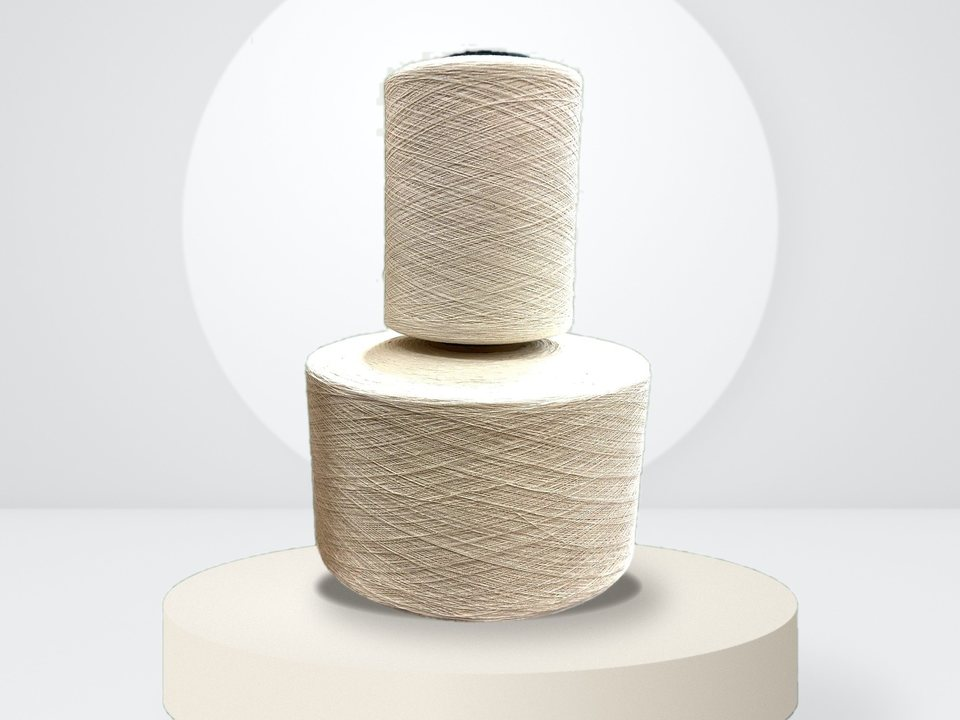
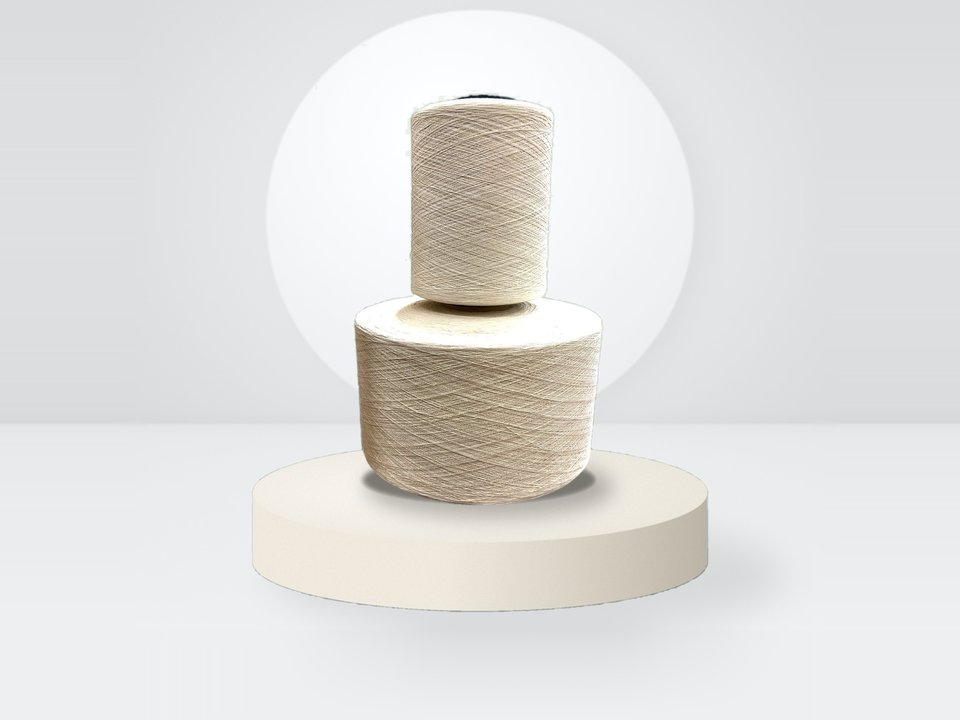
Yarn card: show the whole podium; cache-bust photos
The card photo now keeps the full podium with some floor below it.
Photo URLs carry a content hash so replaced images are not served
from browser cache.

Claude-Session: https://claude.ai/code/session_016sCuQqi6TPsQvyxFB8uVLd

Changed region(s): [[0.3125, 0.0611, 0.8438, 1.0]]

diff --git a/docs/ru/yarn.html b/docs/ru/yarn.html
@@ -81,7 +81,7 @@
 
     <section class="section">
       <div class="container split split-top">
-        <div class="split-media"><figure class="media media-tall"><video class="media-video" autoplay muted loop playsinline preload="metadata" poster="../assets/img/yarn-mill-poster.jpg" aria-label="Производство пряжи ALTYN PAMYK"><source src="../assets/video/yarn-mill.mp4" type="video/mp4"></video></figure></div>
+        <div class="split-media"><figure class="media media-tall"><video class="media-video" autoplay muted loop playsinline preload="metadata" poster="../assets/img/yarn-mill-poster.jpg?v=181b37dc" aria-label="Производство пряжи ALTYN PAMYK"><source src="../assets/video/yarn-mill.mp4" type="video/mp4"></video></figure></div>
         <div >
           <div class="prose"><p>Предприятие введено в эксплуатацию в 2026 году. Производственная мощность составляет 5 000 тонн пряжи.</p><p>Предприятие выпускает хлопчатобумажную пряжу пневмомеханического способа прядения OE (Open End) номеров Ne 16 и Ne 21. Производство организовано в сотрудничестве с китайскими инженерами с применением современных технологий и оборудования.</p><p>Эксклюзивная реализация продукции предприятия осуществляется под торговой маркой UMMAN TRADE.</p></div>
           <dl class="stat-row "><div><dt>2026</dt><dd>год ввода в эксплуатацию</dd></div><div><dt>5 000 тонн</dt><dd>производственная мощность</dd></div><div><dt>Ne 16 · 21</dt><dd>номера пряжи</dd></div></dl>
@@ -114,27 +114,27 @@
         <header class="section-head"><h2>Предприятие</h2></header>
         <div class="gallery">
         <figure class="photo">
-          <img src="../assets/img/yarn-1.jpg" alt="Цех подготовки сырья" loading="lazy">
+          <img src="../assets/img/yarn-1.jpg?v=40c728ed" alt="Цех подготовки сырья" loading="lazy">
           <figcaption>Цех подготовки сырья</figcaption>
         </figure>
         <figure class="photo">
-          <img src="../assets/img/yarn-2.jpg" alt="Кипоразрыхлитель" loading="lazy">
+          <img src="../assets/img/yarn-2.jpg?v=1f694115" alt="Кипоразрыхлитель" loading="lazy">
           <figcaption>Кипоразрыхлитель</figcaption>
         </figure>
         <figure class="photo">
-          <img src="../assets/img/yarn-3.jpg" alt="Линия разрыхления кип" loading="lazy">
+          <img src="../assets/img/yarn-3.jpg?v=889b5f36" alt="Линия разрыхления кип" loading="lazy">
           <figcaption>Линия разрыхления кип</figcaption>
         </figure>
         <figure class="photo">
-          <img src="../assets/img/yarn-4.jpg" alt="Пряжа ALTYN PAMYK" loading="lazy">
+          <img src="../assets/img/yarn-4.jpg?v=50eaffc7" alt="Пряжа ALTYN PAMYK" loading="lazy">
           <figcaption>Пряжа ALTYN PAMYK</figcaption>
         </figure>
         <figure class="photo">
-          <img src="../assets/img/yarn-5.jpg" alt="Машины пневмомеханического прядения" loading="lazy">
+          <img src="../assets/img/yarn-5.jpg?v=aa8656c3" alt="Машины пневмомеханического прядения" loading="lazy">
           <figcaption>Машины пневмомеханического прядения</figcaption>
         </figure>
         <figure class="photo">
-          <img src="../assets/img/yarn-6.jpg" alt="Прядильный цех" loading="lazy">
+          <img src="../assets/img/yarn-6.jpg?v=b31d06ab" alt="Прядильный цех" loading="lazy">
           <figcaption>Прядильный цех</figcaption>
         </figure>
         </div>

diff --git a/docs/ru/index.html b/docs/ru/index.html
@@ -82,7 +82,7 @@
             <a class="btn btn-outline" href="#directions"><span>Направления</span><svg class="icon" viewBox="0 0 24 24" fill="none" stroke="currentColor" stroke-width="1.8" stroke-linecap="round" stroke-linejoin="round" aria-hidden="true"><path d="M5 12h14M13 6l6 6-6 6"/></svg></a>
           </div>
         </div>
-        <div class="hero-visual"><figure class="media media-hero"><video class="media-video" autoplay muted loop playsinline preload="metadata" poster="../assets/img/spinning-hall-poster.jpg" aria-label="Производство пряжи ALTYN PAMYK"><source src="../assets/video/spinning-hall.mp4" type="video/mp4"></video></figure></div>
+        <div class="hero-visual"><figure class="media media-hero"><video class="media-video" autoplay muted loop playsinline preload="metadata" poster="../assets/img/spinning-hall-poster.jpg?v=5214b2cf" aria-label="Производство пряжи ALTYN PAMYK"><source src="../assets/video/spinning-hall.mp4" type="video/mp4"></video></figure></div>
       </div>
       <div class="container"><dl class="stat-row stats"><div><dt>5 000 тонн</dt><dd>производственная мощность по пряже</dd></div><div><dt>12 000 тонн</dt><dd>хлопкового линта экспортировано в 2024–2025 гг.</dd></div><div><dt>HVI</dt><dd>собственная лаборатория контроля качества хлопка</dd></div><div><dt>4</dt><dd>направления деятельности</dd></div></dl></div>
     </section>
@@ -95,7 +95,7 @@
         </header>
         <div class="dir-grid">
         <article class="dir-card">
-          <a class="dir-card-media has-photo" href="yarn.html" tabindex="-1" aria-hidden="true"><img src="../assets/img/yarn-card-white.jpg" alt="" loading="lazy"></a>
+          <a class="dir-card-media has-photo" href="yarn.html" tabindex="-1" aria-hidden="true"><img src="../assets/img/yarn-card-white.jpg?v=2f282466" alt="" loading="lazy"></a>
           <div class="dir-card-body">
             <h3><a href="yarn.html">Производство пряжи</a></h3>
             <p>Хлопчатобумажная пряжа OE Ne 16 и Ne 21 под торговой маркой ALTYN PAMYK.</p>
@@ -103,7 +103,7 @@
           </div>
         </article>
         <article class="dir-card">
-          <a class="dir-card-media has-photo" href="export.html" tabindex="-1" aria-hidden="true"><img src="../assets/img/export-2.jpg" alt="" loading="lazy"></a>
+          <a class="dir-card-media has-photo" href="export.html" tabindex="-1" aria-hidden="true"><img src="../assets/img/export-2.jpg?v=c5147658" alt="" loading="lazy"></a>
           <div class="dir-card-body">
             <h3><a href="export.html">Экспорт хлопка</a></h3>
             <p>Хлопковый линт, волокно и улюк из Туркменистана для зарубежных покупателей.</p>
@@ -159,7 +159,7 @@
 
     <section class="section">
       <div class="container split">
-        <div class="split-media"><figure class="media media-tall"><video class="media-video" autoplay muted loop playsinline preload="metadata" poster="../assets/img/yarn-mill-poster.jpg" aria-label="Производство пряжи ALTYN PAMYK"><source src="../assets/video/yarn-mill.mp4" type="video/mp4"></video></figure></div>
+        <div class="split-media"><figure class="media media-tall"><video class="media-video" autoplay muted loop playsinline preload="metadata" poster="../assets/img/yarn-mill-poster.jpg?v=181b37dc" aria-label="Производство пряжи ALTYN PAMYK"><source src="../assets/video/yarn-mill.mp4" type="video/mp4"></video></figure></div>
         <div >
           <p class="eyebrow">Торговая марка ALTYN PAMYK</p>
           <h2>Собственное производство пряжи</h2>

diff --git a/docs/ru/export.html b/docs/ru/export.html
@@ -81,7 +81,7 @@
 
     <section class="section">
       <div class="container split split-top">
-        <div class="split-media"><figure class="media media-tall"><video class="media-video" autoplay muted loop playsinline preload="metadata" poster="../assets/img/cotton-bales-poster.jpg" aria-label="Видео: площадка хранения хлопковых кип"><source src="../assets/video/cotton-bales.mp4" type="video/mp4"></video></figure></div>
+        <div class="split-media"><figure class="media media-tall"><video class="media-video" autoplay muted loop playsinline preload="metadata" poster="../assets/img/cotton-bales-poster.jpg?v=1aab56e7" aria-label="Видео: площадка хранения хлопковых кип"><source src="../assets/video/cotton-bales.mp4" type="video/mp4"></video></figure></div>
         <div >
           <dl class="stat-row "><div><dt>2024</dt><dd>начало экспортной деятельности</dd></div><div><dt>12 000 тонн</dt><dd>хлопкового линта экспортировано за 2024–2025 гг.</dd></div></dl>
           <div class="prose"><p>За 2024–2025 годы было экспортировано 12 000 тонн хлопкового линта. Практический опыт и налаженные торговые связи позволяют нам организовывать крупнооптовые поставки для зарубежных покупателей.</p></div>
@@ -176,27 +176,27 @@
         <header class="section-head"><h2>Площадки хранения</h2></header>
         <div class="gallery">
         <figure class="photo">
-          <img src="../assets/img/export-1.jpg" alt="Площадка хранения" loading="lazy">
+          <img src="../assets/img/export-1.jpg?v=497e93f0" alt="Площадка хранения" loading="lazy">
           <figcaption>Площадка хранения</figcaption>
         </figure>
         <figure class="photo">
-          <img src="../assets/img/export-2.jpg" alt="Кипы хлопка" loading="lazy">
+          <img src="../assets/img/export-2.jpg?v=c5147658" alt="Кипы хлопка" loading="lazy">
           <figcaption>Кипы хлопка</figcaption>
         </figure>
         <figure class="photo">
-          <img src="../assets/img/export-3.jpg" alt="Партии к отгрузке" loading="lazy">
+          <img src="../assets/img/export-3.jpg?v=6673baed" alt="Партии к отгрузке" loading="lazy">
           <figcaption>Партии к отгрузке</figcaption>
         </figure>
         <figure class="photo">
-          <img src="../assets/img/export-4.jpg" alt="Хлопковое сырьё" loading="lazy">
+          <img src="../assets/img/export-4.jpg?v=444c9ec2" alt="Хлопковое сырьё" loading="lazy">
           <figcaption>Хлопковое сырьё</figcaption>
         </figure>
         <figure class="photo">
-          <img src="../assets/img/export-5.jpg" alt="Хлопковое волокно" loading="lazy">
+          <img src="../assets/img/export-5.jpg?v=042dde79" alt="Хлопковое волокно" loading="lazy">
           <figcaption>Хлопковое волокно</figcaption>
         </figure>
         <figure class="photo">
-          <img src="../assets/img/export-6.jpg" alt="Хлопковое сырьё крупным планом" loading="lazy">
+          <img src="../assets/img/export-6.jpg?v=ee745458" alt="Хлопковое сырьё крупным планом" loading="lazy">
           <figcaption>Хлопковое сырьё крупным планом</figcaption>
         </figure>
         </div>

diff --git a/docs/tk/index.html b/docs/tk/index.html
@@ -82,7 +82,7 @@
             <a class="btn btn-outline" href="#directions"><span>Ugurlar</span><svg class="icon" viewBox="0 0 24 24" fill="none" stroke="currentColor" stroke-width="1.8" stroke-linecap="round" stroke-linejoin="round" aria-hidden="true"><path d="M5 12h14M13 6l6 6-6 6"/></svg></a>
           </div>
         </div>
-        <div class="hero-visual"><figure class="media media-hero"><video class="media-video" autoplay muted loop playsinline preload="metadata" poster="../assets/img/spinning-hall-poster.jpg" aria-label="ALTYN PAMYK ýüplük önümçiligi"><source src="../assets/video/spinning-hall.mp4" type="video/mp4"></video></figure></div>
+        <div class="hero-visual"><figure class="media media-hero"><video class="media-video" autoplay muted loop playsinline preload="metadata" poster="../assets/img/spinning-hall-poster.jpg?v=5214b2cf" aria-label="ALTYN PAMYK ýüplük önümçiligi"><source src="../assets/video/spinning-hall.mp4" type="video/mp4"></video></figure></div>
       </div>
       <div class="container"><dl class="stat-row stats"><div><dt>5 000 tonna</dt><dd>ýüplük boýunça önümçilik kuwwaty</dd></div><div><dt>12 000 tonna</dt><dd>pagta linti 2024–2025 ýyllarda eksport edildi</dd></div><div><dt>HVI</dt><dd>pagtanyň hilini barlaýan öz barlaghanamyz</dd></div><div><dt>4</dt><dd>işiň ugry</dd></div></dl></div>
     </section>
@@ -95,7 +95,7 @@
         </header>
         <div class="dir-grid">
         <article class="dir-card">
-          <a class="dir-card-media has-photo" href="yarn.html" tabindex="-1" aria-hidden="true"><img src="../assets/img/yarn-card-white.jpg" alt="" loading="lazy"></a>
+          <a class="dir-card-media has-photo" href="yarn.html" tabindex="-1" aria-hidden="true"><img src="../assets/img/yarn-card-white.jpg?v=2f282466" alt="" loading="lazy"></a>
           <div class="dir-card-body">
             <h3><a href="yarn.html">Ýüplük önümçiligi</a></h3>
             <p>ALTYN PAMYK haryt nyşany bilen OE Ne 16 we Ne 21 pagta ýüplügi.</p>
@@ -103,7 +103,7 @@
           </div>
         </article>
         <article class="dir-card">
-          <a class="dir-card-media has-photo" href="export.html" tabindex="-1" aria-hidden="true"><img src="../assets/img/export-2.jpg" alt="" loading="lazy"></a>
+          <a class="dir-card-media has-photo" href="export.html" tabindex="-1" aria-hidden="true"><img src="../assets/img/export-2.jpg?v=c5147658" alt="" loading="lazy"></a>
           <div class="dir-card-body">
             <h3><a href="export.html">Pagta eksporty</a></h3>
             <p>Daşary ýurt alyjylary üçin Türkmenistandan pagta linti, süýümi we ülügi.</p>
@@ -159,7 +159,7 @@
 
     <section class="section">
       <div class="container split">
-        <div class="split-media"><figure class="media media-tall"><video class="media-video" autoplay muted loop playsinline preload="metadata" poster="../assets/img/yarn-mill-poster.jpg" aria-label="ALTYN PAMYK ýüplük önümçiligi"><source src="../assets/video/yarn-mill.mp4" type="video/mp4"></video></figure></div>
+        <div class="split-media"><figure class="media media-tall"><video class="media-video" autoplay muted loop playsinline preload="metadata" poster="../assets/img/yarn-mill-poster.jpg?v=181b37dc" aria-label="ALTYN PAMYK ýüplük önümçiligi"><source src="../assets/video/yarn-mill.mp4" type="video/mp4"></video></figure></div>
         <div >
           <p class="eyebrow">ALTYN PAMYK haryt nyşany</p>
           <h2>Öz ýüplük önümçiligimiz</h2>

diff --git a/docs/en/index.html b/docs/en/index.html
@@ -82,7 +82,7 @@
             <a class="btn btn-outline" href="#directions"><span>Business lines</span><svg class="icon" viewBox="0 0 24 24" fill="none" stroke="currentColor" stroke-width="1.8" stroke-linecap="round" stroke-linejoin="round" aria-hidden="true"><path d="M5 12h14M13 6l6 6-6 6"/></svg></a>
           </div>
         </div>
-        <div class="hero-visual"><figure class="media media-hero"><video class="media-video" autoplay muted loop playsinline preload="metadata" poster="../assets/img/spinning-hall-poster.jpg" aria-label="ALTYN PAMYK yarn manufacturing"><source src="../assets/video/spinning-hall.mp4" type="video/mp4"></video></figure></div>
+        <div class="hero-visual"><figure class="media media-hero"><video class="media-video" autoplay muted loop playsinline preload="metadata" poster="../assets/img/spinning-hall-poster.jpg?v=5214b2cf" aria-label="ALTYN PAMYK yarn manufacturing"><source src="../assets/video/spinning-hall.mp4" type="video/mp4"></video></figure></div>
       </div>
       <div class="container"><dl class="stat-row stats"><div><dt>5,000 tonnes</dt><dd>yarn production capacity</dd></div><div><dt>12,000 tonnes</dt><dd>of cotton linter exported in 2024–2025</dd></div><div><dt>HVI</dt><dd>in-house cotton testing laboratory</dd></div><div><dt>4</dt><dd>business lines</dd></div></dl></div>
     </section>
@@ -95,7 +95,7 @@
         </header>
         <div class="dir-grid">
         <article class="dir-card">
-          <a class="dir-card-media has-photo" href="yarn.html" tabindex="-1" aria-hidden="true"><img src="../assets/img/yarn-card-white.jpg" alt="" loading="lazy"></a>
+          <a class="dir-card-media has-photo" href="yarn.html" tabindex="-1" aria-hidden="true"><img src="../assets/img/yarn-card-white.jpg?v=2f282466" alt="" loading="lazy"></a>
           <div class="dir-card-body">
             <h3><a href="yarn.html">Yarn manufacturing</a></h3>
             <p>Open-end cotton yarn Ne 16 and Ne 21 under the ALTYN PAMYK brand.</p>
@@ -103,7 +103,7 @@
           </div>
         </article>
         <article class="dir-card">
-          <a class="dir-card-media has-photo" href="export.html" tabindex="-1" aria-hidden="true"><img src="../assets/img/export-2.jpg" alt="" loading="lazy"></a>
+          <a class="dir-card-media has-photo" href="export.html" tabindex="-1" aria-hidden="true"><img src="../assets/img/export-2.jpg?v=c5147658" alt="" loading="lazy"></a>
           <div class="dir-card-body">
             <h3><a href="export.html">Cotton export</a></h3>
             <p>Cotton linter, fibre and ulyuk from Turkmenistan for international buyers.</p>
@@ -159,7 +159,7 @@
 
     <section class="section">
       <div class="container split">
-        <div class="split-media"><figure class="media media-tall"><video class="media-video" autoplay muted loop playsinline preload="metadata" poster="../assets/img/yarn-mill-poster.jpg" aria-label="ALTYN PAMYK yarn manufacturing"><source src="../assets/video/yarn-mill.mp4" type="video/mp4"></video></figure></div>
+        <div class="split-media"><figure class="media media-tall"><video class="media-video" autoplay muted loop playsinline preload="metadata" poster="../assets/img/yarn-mill-poster.jpg?v=181b37dc" aria-label="ALTYN PAMYK yarn manufacturing"><source src="../assets/video/yarn-mill.mp4" type="video/mp4"></video></figure></div>
         <div >
           <p class="eyebrow">ALTYN PAMYK brand</p>
           <h2>Our own yarn mill</h2>

diff --git a/docs/tk/yarn.html b/docs/tk/yarn.html
@@ -81,7 +81,7 @@
 
     <section class="section">
       <div class="container split split-top">
-        <div class="split-media"><figure class="media media-tall"><video class="media-video" autoplay muted loop playsinline preload="metadata" poster="../assets/img/yarn-mill-poster.jpg" aria-label="ALTYN PAMYK ýüplük önümçiligi"><source src="../assets/video/yarn-mill.mp4" type="video/mp4"></video></figure></div>
+        <div class="split-media"><figure class="media media-tall"><video class="media-video" autoplay muted loop playsinline preload="metadata" poster="../assets/img/yarn-mill-poster.jpg?v=181b37dc" aria-label="ALTYN PAMYK ýüplük önümçiligi"><source src="../assets/video/yarn-mill.mp4" type="video/mp4"></video></figure></div>
         <div >
           <div class="prose"><p>Kärhana 2026-njy ýylda ulanylmaga berildi. Önümçilik kuwwaty 5 000 tonna ýüplük.</p><p>Kärhana pnewmomehaniki egriş usulyndaky OE (Open End) Ne 16 we Ne 21 belgili pagta ýüplügini öndürýär. Önümçilik hytaý inženerleri bilen hyzmatdaşlykda döwrebap tehnologiýalary we enjamlary ulanmak arkaly guraldy.</p><p>Kärhananyň önümleri ýeke-täk UMMAN TRADE haryt nyşany bilen satylýar.</p></div>
           <dl class="stat-row "><div><dt>2026</dt><dd>ulanylmaga berlen ýyly</dd></div><div><dt>5 000 tonna</dt><dd>önümçilik kuwwaty</dd></div><div><dt>Ne 16 · 21</dt><dd>ýüplügiň belgileri</dd></div></dl>
@@ -114,27 +114,27 @@
         <header class="section-head"><h2>Kärhana</h2></header>
         <div class="gallery">
         <figure class="photo">
-          <img src="../assets/img/yarn-1.jpg" alt="Çig maly taýýarlaýyş sehi" loading="lazy">
+          <img src="../assets/img/yarn-1.jpg?v=40c728ed" alt="Çig maly taýýarlaýyş sehi" loading="lazy">
           <figcaption>Çig maly taýýarlaýyş sehi</figcaption>
         </figure>
         <figure class="photo">
-          <img src="../assets/img/yarn-2.jpg" alt="Tuplary ýazdyryjy" loading="lazy">
+          <img src="../assets/img/yarn-2.jpg?v=1f694115" alt="Tuplary ýazdyryjy" loading="lazy">
           <figcaption>Tuplary ýazdyryjy</figcaption>
         </figure>
         <figure class="photo">
-          <img src="../assets/img/yarn-3.jpg" alt="Tuplary ýazdyryş liniýasy" loading="lazy">
+          <img src="../assets/img/yarn-3.jpg?v=889b5f36" alt="Tuplary ýazdyryş liniýasy" loading="lazy">
           <figcaption>Tuplary ýazdyryş liniýasy</figcaption>
         </figure>
         <figure class="photo">
-          <img src="../assets/img/yarn-4.jpg" alt="ALTYN PAMYK ýüplügi" loading="lazy">
+          <img src="../assets/img/yarn-4.jpg?v=50eaffc7" alt="ALTYN PAMYK ýüplügi" loading="lazy">
           <figcaption>ALTYN PAMYK ýüplügi</figcaption>
         </figure>
         <figure class="photo">
-          <img src="../assets/img/yarn-5.jpg" alt="Pnewmomehaniki egriş maşynlary" loading="lazy">
+          <img src="../assets/img/yarn-5.jpg?v=aa8656c3" alt="Pnewmomehaniki egriş maşynlary" loading="lazy">
           <figcaption>Pnewmomehaniki egriş maşynlary</figcaption>
         </figure>
         <figure class="photo">
-          <img src="../assets/img/yarn-6.jpg" alt="Egriş sehi" loading="lazy">
+          <img src="../assets/img/yarn-6.jpg?v=b31d06ab" alt="Egriş sehi" loading="lazy">
           <figcaption>Egriş sehi</figcaption>
         </figure>
         </div>

diff --git a/docs/en/yarn.html b/docs/en/yarn.html
@@ -81,7 +81,7 @@
 
     <section class="section">
       <div class="container split split-top">
-        <div class="split-media"><figure class="media media-tall"><video class="media-video" autoplay muted loop playsinline preload="metadata" poster="../assets/img/yarn-mill-poster.jpg" aria-label="ALTYN PAMYK yarn manufacturing"><source src="../assets/video/yarn-mill.mp4" type="video/mp4"></video></figure></div>
+        <div class="split-media"><figure class="media media-tall"><video class="media-video" autoplay muted loop playsinline preload="metadata" poster="../assets/img/yarn-mill-poster.jpg?v=181b37dc" aria-label="ALTYN PAMYK yarn manufacturing"><source src="../assets/video/yarn-mill.mp4" type="video/mp4"></video></figure></div>
         <div >
           <div class="prose"><p>The mill was commissioned in 2026. Its production capacity is 5,000 tonnes of yarn.</p><p>The mill produces open-end (OE) cotton yarn in counts Ne 16 and Ne 21. Production was set up in cooperation with Chinese engineers using modern technology and equipment.</p><p>The mill’s products are sold exclusively under the UMMAN TRADE trade mark.</p></div>
           <dl class="stat-row "><div><dt>2026</dt><dd>commissioned</dd></div><div><dt>5,000 tonnes</dt><dd>production capacity</dd></div><div><dt>Ne 16 · 21</dt><dd>yarn counts</dd></div></dl>
@@ -114,27 +114,27 @@
         <header class="section-head"><h2>The mill</h2></header>
         <div class="gallery">
         <figure class="photo">
-          <img src="../assets/img/yarn-1.jpg" alt="Raw material preparation" loading="lazy">
+          <img src="../assets/img/yarn-1.jpg?v=40c728ed" alt="Raw material preparation" loading="lazy">
           <figcaption>Raw material preparation</figcaption>
         </figure>
         <figure class="photo">
-          <img src="../assets/img/yarn-2.jpg" alt="Bale opener" loading="lazy">
+          <img src="../assets/img/yarn-2.jpg?v=1f694115" alt="Bale opener" loading="lazy">
           <figcaption>Bale opener</figcaption>
         </figure>
         <figure class="photo">
-          <img src="../assets/img/yarn-3.jpg" alt="Bale opening line" loading="lazy">
+          <img src="../assets/img/yarn-3.jpg?v=889b5f36" alt="Bale opening line" loading="lazy">
           <figcaption>Bale opening line</figcaption>
         </figure>
         <figure class="photo">
-          <img src="../assets/img/yarn-4.jpg" alt="ALTYN PAMYK yarn" loading="lazy">
+          <img src="../assets/img/yarn-4.jpg?v=50eaffc7" alt="ALTYN PAMYK yarn" loading="lazy">
           <figcaption>ALTYN PAMYK yarn</figcaption>
         </figure>
         <figure class="photo">
-          <img src="../assets/img/yarn-5.jpg" alt="Open-end spinning machines" loading="lazy">
+          <img src="../assets/img/yarn-5.jpg?v=aa8656c3" alt="Open-end spinning machines" loading="lazy">
           <figcaption>Open-end spinning machines</figcaption>
         </figure>
         <figure class="photo">
-          <img src="../assets/img/yarn-6.jpg" alt="Spinning hall" loading="lazy">
+          <img src="../assets/img/yarn-6.jpg?v=b31d06ab" alt="Spinning hall" loading="lazy">
           <figcaption>Spinning hall</figcaption>
         </figure>
         </div>

diff --git a/docs/tk/export.html b/docs/tk/export.html
@@ -81,7 +81,7 @@
 
     <section class="section">
       <div class="container split split-top">
-        <div class="split-media"><figure class="media media-tall"><video class="media-video" autoplay muted loop playsinline preload="metadata" poster="../assets/img/cotton-bales-poster.jpg" aria-label="Wideo: pagta tuplaryny saklaýyş meýdançasy"><source src="../assets/video/cotton-bales.mp4" type="video/mp4"></video></figure></div>
+        <div class="split-media"><figure class="media media-tall"><video class="media-video" autoplay muted loop playsinline preload="metadata" poster="../assets/img/cotton-bales-poster.jpg?v=1aab56e7" aria-label="Wideo: pagta tuplaryny saklaýyş meýdançasy"><source src="../assets/video/cotton-bales.mp4" type="video/mp4"></video></figure></div>
         <div >
           <dl class="stat-row "><div><dt>2024</dt><dd>eksport işiniň başlanan ýyly</dd></div><div><dt>12 000 tonna</dt><dd>pagta linti 2024–2025 ýyllarda eksport edildi</dd></div></dl>
           <div class="prose"><p>2024–2025 ýyllarda 12 000 tonna pagta linti eksport edildi. Amaly tejribe we ýola goýlan söwda gatnaşyklary daşary ýurt alyjylary üçin uly lomaý getirip bermegi guramaga mümkinçilik berýär.</p></div>
@@ -176,27 +176,27 @@
         <header class="section-head"><h2>Saklaýyş meýdançalary</h2></header>
         <div class="gallery">
         <figure class="photo">
-          <img src="../assets/img/export-1.jpg" alt="Saklaýyş meýdançasy" loading="lazy">
+          <img src="../assets/img/export-1.jpg?v=497e93f0" alt="Saklaýyş meýdançasy" loading="lazy">
           <figcaption>Saklaýyş meýdançasy</figcaption>
         </figure>
         <figure class="photo">
-          <img src="../assets/img/export-2.jpg" alt="Pagta tuplary" loading="lazy">
+          <img src="../assets/img/export-2.jpg?v=c5147658" alt="Pagta tuplary" loading="lazy">
           <figcaption>Pagta tuplary</figcaption>
         </figure>
         <figure class="photo">
-          <img src="../assets/img/export-3.jpg" alt="Ýüklemäge taýýar partiýalar" loading="lazy">
+          <img src="../assets/img/export-3.jpg?v=6673baed" alt="Ýüklemäge taýýar partiýalar" loading="lazy">
           <figcaption>Ýüklemäge taýýar partiýalar</figcaption>
         </figure>
         <figure class="photo">
-          <img src="../assets/img/export-4.jpg" alt="Pagta çig maly" loading="lazy">
+          <img src="../assets/img/export-4.jpg?v=444c9ec2" alt="Pagta çig maly" loading="lazy">
           <figcaption>Pagta çig maly</figcaption>
         </figure>
         <figure class="photo">
-          <img src="../assets/img/export-5.jpg" alt="Pagta süýümi" loading="lazy">
+          <img src="../assets/img/export-5.jpg?v=042dde79" alt="Pagta süýümi" loading="lazy">
           <figcaption>Pagta süýümi</figcaption>
         </figure>
         <figure class="photo">
-          <img src="../assets/img/export-6.jpg" alt="Pagta çig maly ýakyndan" loading="lazy">
+          <img src="../assets/img/export-6.jpg?v=ee745458" alt="Pagta çig maly ýakyndan" loading="lazy">
           <figcaption>Pagta çig maly ýakyndan</figcaption>
         </figure>
         </div>

diff --git a/docs/en/export.html b/docs/en/export.html
@@ -81,7 +81,7 @@
 
     <section class="section">
       <div class="container split split-top">
-        <div class="split-media"><figure class="media media-tall"><video class="media-video" autoplay muted loop playsinline preload="metadata" poster="../assets/img/cotton-bales-poster.jpg" aria-label="Video: cotton bale storage yard"><source src="../assets/video/cotton-bales.mp4" type="video/mp4"></video></figure></div>
+        <div class="split-media"><figure class="media media-tall"><video class="media-video" autoplay muted loop playsinline preload="metadata" poster="../assets/img/cotton-bales-poster.jpg?v=1aab56e7" aria-label="Video: cotton bale storage yard"><source src="../assets/video/cotton-bales.mp4" type="video/mp4"></video></figure></div>
         <div >
           <dl class="stat-row "><div><dt>2024</dt><dd>export operations began</dd></div><div><dt>12,000 tonnes</dt><dd>of cotton linter exported in 2024–2025</dd></div></dl>
           <div class="prose"><p>In 2024–2025 we exported 12,000 tonnes of cotton linter. Our hands-on experience and established trade relationships allow us to organise bulk shipments for international buyers.</p></div>
@@ -176,27 +176,27 @@
         <header class="section-head"><h2>Storage yards</h2></header>
         <div class="gallery">
         <figure class="photo">
-          <img src="../assets/img/export-1.jpg" alt="Storage yard" loading="lazy">
+          <img src="../assets/img/export-1.jpg?v=497e93f0" alt="Storage yard" loading="lazy">
           <figcaption>Storage yard</figcaption>
         </figure>
         <figure class="photo">
-          <img src="../assets/img/export-2.jpg" alt="Cotton bales" loading="lazy">
+          <img src="../assets/img/export-2.jpg?v=c5147658" alt="Cotton bales" loading="lazy">
           <figcaption>Cotton bales</figcaption>
         </figure>
         <figure class="photo">
-          <img src="../assets/img/export-3.jpg" alt="Lots ready for shipping" loading="lazy">
+          <img src="../assets/img/export-3.jpg?v=6673baed" alt="Lots ready for shipping" loading="lazy">
           <figcaption>Lots ready for shipping</figcaption>
         </figure>
         <figure class="photo">
-          <img src="../assets/img/export-4.jpg" alt="Raw cotton" loading="lazy">
+          <img src="../assets/img/export-4.jpg?v=444c9ec2" alt="Raw cotton" loading="lazy">
           <figcaption>Raw cotton</figcaption>
         </figure>
         <figure class="photo">
-          <img src="../assets/img/export-5.jpg" alt="Cotton fibre" loading="lazy">
+          <img src="../assets/img/export-5.jpg?v=042dde79" alt="Cotton fibre" loading="lazy">
           <figcaption>Cotton fibre</figcaption>
         </figure>
         <figure class="photo">
-          <img src="../assets/img/export-6.jpg" alt="Raw cotton close-up" loading="lazy">
+          <img src="../assets/img/export-6.jpg?v=ee745458" alt="Raw cotton close-up" loading="lazy">
           <figcaption>Raw cotton close-up</figcaption>
         </figure>
         </div>
